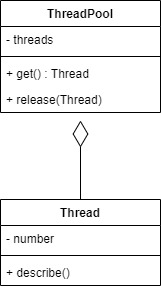
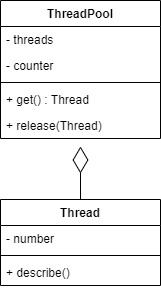
Object Pool for Go

Changed region(s): [[0.0, 0.1869, 1.0, 0.5917]]

diff --git a/Object Pool/Golang/ThreadPool.go b/Object Pool/Golang/ThreadPool.go
@@ -1,0 +1,42 @@
+package main
+
+type ThreadPool struct {
+	threads []*Thread
+	counter int
+}
+
+func NewThreadPool() *ThreadPool {
+	threadPool := ThreadPool{}
+	threadPool.threads = make([]*Thread, 0)
+	threadPool.counter = 2
+
+	for i := 1; i <= 2; i++ {
+		thread := &Thread{
+			number: i,
+		}
+
+		threadPool.threads = append(threadPool.threads, thread)
+	}
+
+	return &threadPool
+}
+
+func (threadPool *ThreadPool) get() *Thread  {
+	var thread *Thread
+	if len(threadPool.threads) > 0 {
+		thread = threadPool.threads[0]
+		threadPool.threads = threadPool.threads[1:]
+
+	} else {
+		threadPool.counter += 1
+		thread = &Thread{
+			number: threadPool.counter,
+		}
+	}
+
+	return thread
+}
+
+func (threadPool *ThreadPool) release(thread *Thread) {
+	threadPool.threads = append(threadPool.threads, thread)
+}

diff --git a/Object Pool/Golang/Test.go b/Object Pool/Golang/Test.go
@@ -1,0 +1,36 @@
+package main
+
+func main()  {
+	threadPool := NewThreadPool()
+	threads := make([]*Thread, 0)
+	var thread *Thread
+
+	// Get threads object
+	for i := 0; i < 3; i++ {
+		thread = threadPool.get()
+		threads = append(threads, thread)
+	}
+
+	// Describe threads
+	for _, thread = range threads {
+		thread.describe()
+	}
+
+	// Release threads object
+	for i := 0; i < 3; i++ {
+		thread = threads[len(threads) - 1]
+		threads = threads[:len(threads) - 1]
+		threadPool.release(thread)
+	}
+
+	// Get threads object
+	for i := 0; i < 4; i++ {
+		thread = threadPool.get()
+		threads = append(threads, thread)
+	}
+
+	// Describe threads
+	for _, thread = range threads {
+		thread.describe()
+	}
+}

diff --git a/Object Pool/Golang/Thread.go b/Object Pool/Golang/Thread.go
@@ -1,0 +1,11 @@
+package main
+
+import "fmt"
+
+type Thread struct {
+	number int
+}
+
+func (thread *Thread) describe()  {
+	fmt.Println("This is thread number", thread.number)
+}
